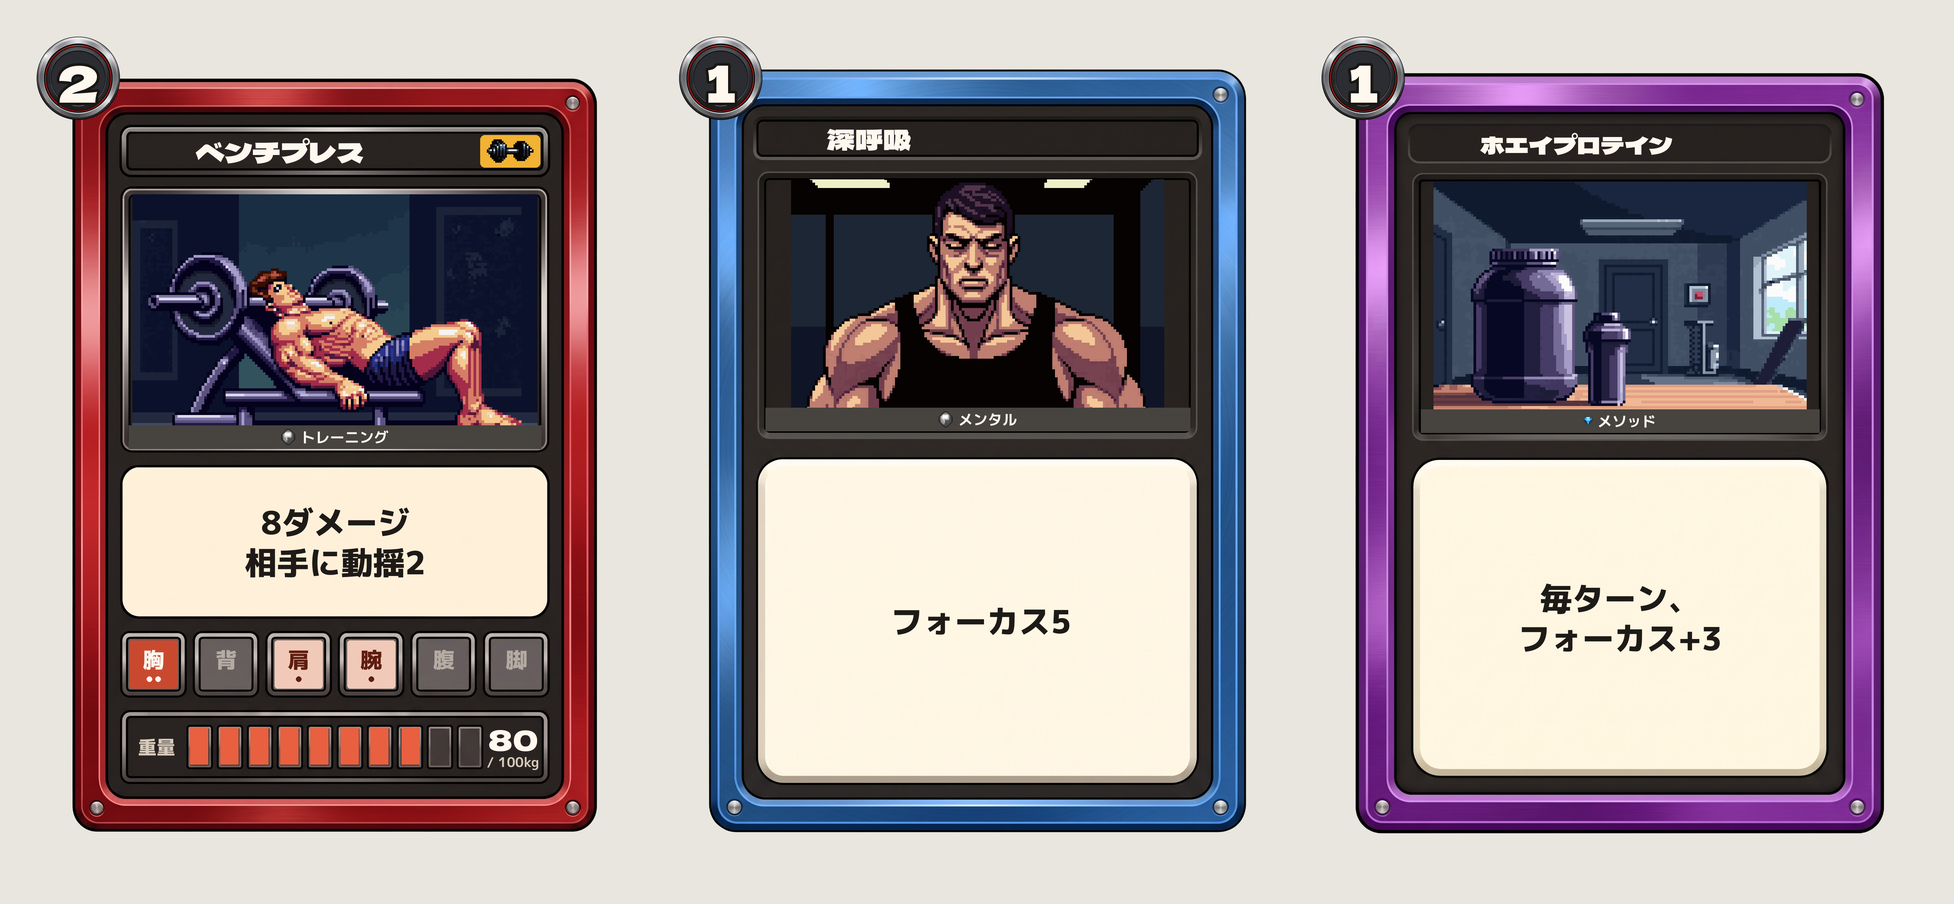
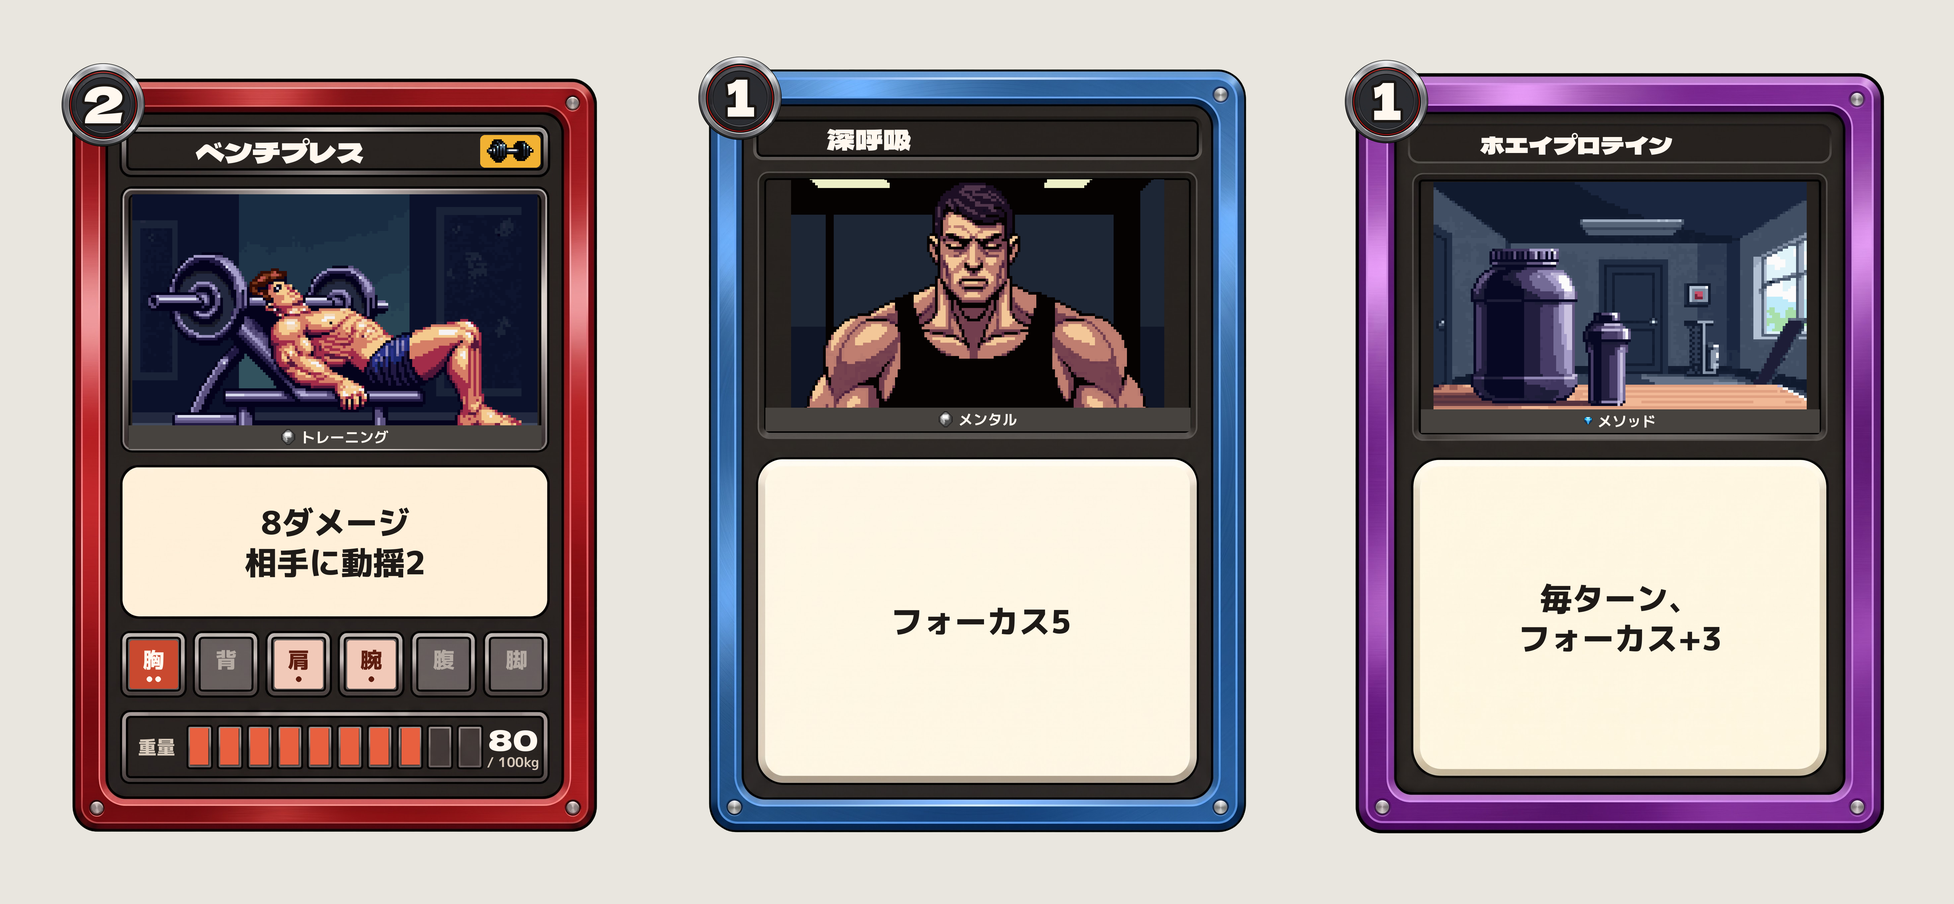
Move cost plate closer to card and center the number
Claude-Session: https://claude.ai/code/session_01Tqu4qEbQPgK8Y2da4kGxXW

Changed region(s): [[0.6556, 0.031, 0.7492, 0.1549], [0.0, 0.031, 0.0937, 0.1858], [0.3434, 0.031, 0.4058, 0.1549]]

diff --git a/muscle-card-game/assets/nanobanana/compose_all.py b/muscle-card-game/assets/nanobanana/compose_all.py
@@ -12,11 +12,11 @@ def key(path, hole=False):
         al[m]=1; rgb[m]=[38,40,46]
     return Image.fromarray(np.dstack([rgb,al*255]).astype(np.uint8),'RGBA')
 FR={
- 'training':dict(src='fe90911e-image.jpg',header=(239,255,1491,372),art=(246,443,1484,1206),text=(228,1263,1503,1710),
+ 'training':dict(src='fe90911e-image.jpg',plate=(45,50),header=(239,255,1491,372),art=(246,443,1484,1206),text=(228,1263,1503,1710),
    cells=[(245,397),(463,615),(680,832),(898,1050),(1116,1267),(1333,1486)],cy=(1777,1929),
    segs=[426,517,607,697,787,878,967,1061,1147,1237],sw=62,sy=(2040,2157),wl=330,wr=1400,wy=2100),
- 'method':dict(src='4a42d0ba-image.jpg',header=(237,237,1498,347),art=(268,406,1464,1158),text=(246,1240,1485,2188)),
- 'mental':dict(src='e405beac-image.jpg',header=(204,223,1529,328),art=(229,398,1504,1153),text=(228,1238,1524,2209)),
+ 'method':dict(src='4a42d0ba-image.jpg',plate=(40,40),header=(237,237,1498,347),art=(268,406,1464,1158),text=(246,1240,1485,2188)),
+ 'mental':dict(src='e405beac-image.jpg',plate=(28,30),header=(204,223,1529,328),art=(229,398,1504,1153),text=(228,1238,1524,2209)),
 }
 PLATE=None
 def card(kind,name,cost,art,eq,gem,label,effect,parts=None,weight=None):
@@ -43,8 +43,11 @@ def card(kind,name,cost,art,eq,gem,label,effect,parts=None,weight=None):
         c.alpha_composite(ic,(int((pr[0]+pr[2])/2-ic.width/2),int((pr[1]+pr[3])/2-ic.height/2)))
     if PLATE is None:
         p=key(U+'32f76ab7-image.jpg',hole=True); PLATE=p.crop(p.getbbox()).resize((250,250),Image.LANCZOS)
-    c.alpha_composite(PLATE,(M-30,M-30))
-    d.text((M-30+125,M-30+133),str(cost),font=font('DelaGothicOne-Regular.ttf',150),fill=hx('FFF8EF'),anchor='mm',stroke_width=8,stroke_fill=hx('1A1613'))
+    px0,py0=M+g.get('plate',(0,0))[0],M+g.get('plate',(0,0))[1]
+    c.alpha_composite(PLATE,(px0,py0))
+    fc=font('DelaGothicOne-Regular.ttf',150); t=str(cost)
+    l,tp,r,b=d.textbbox((0,0),t,font=fc,stroke_width=8)
+    d.text((px0+125-(l+r)/2,py0+125-(tp+b)/2),t,font=fc,fill=hx('FFF8EF'),stroke_width=8,stroke_fill=hx('1A1613'))
     tx0,ty0,tx1,ty1=g['text']; fb=font('MPLUS1p-ExtraBold.ttf',96)
     for i,ln in enumerate(effect):
         d.text((M+(tx0+tx1)/2,M+(ty0+ty1)/2+(i-(len(effect)-1)/2)*120),ln,font=fb,fill=hx('1E1A17'),anchor='mm')
